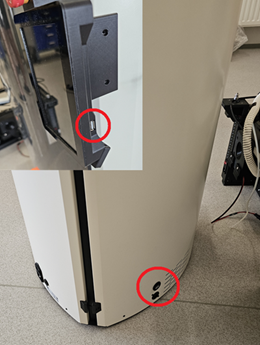
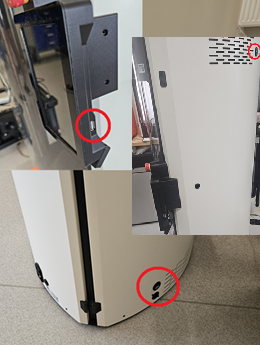
change image and minor fixes

Changed region(s): [[0.4923, 0.087, 1.0, 0.6957]]

diff --git a/src/pages/TrilabDiagnostics.vue b/src/pages/TrilabDiagnostics.vue
@@ -280,7 +280,7 @@
                                     <td>Print Protocol</td>
                                     <td>
                                         <v-text-field v-model="responsibleTester" hide-details
-                                            label="Fill the responsible person here first" outlined
+                                            label="Fill name" outlined
                                             dense></v-text-field>
                                     </td>
                                     <td>
@@ -1148,7 +1148,7 @@ export default class PageTrilabDiagnostics extends Mixins(BaseMixin, TrilabMixin
                     doc.text(
                         humanTextToUse +
                         ': ' +
-                        element.startTime +
+                        element.endTime +
                         //' - ' +
                         //element.endTime +
                         ' - ' +
